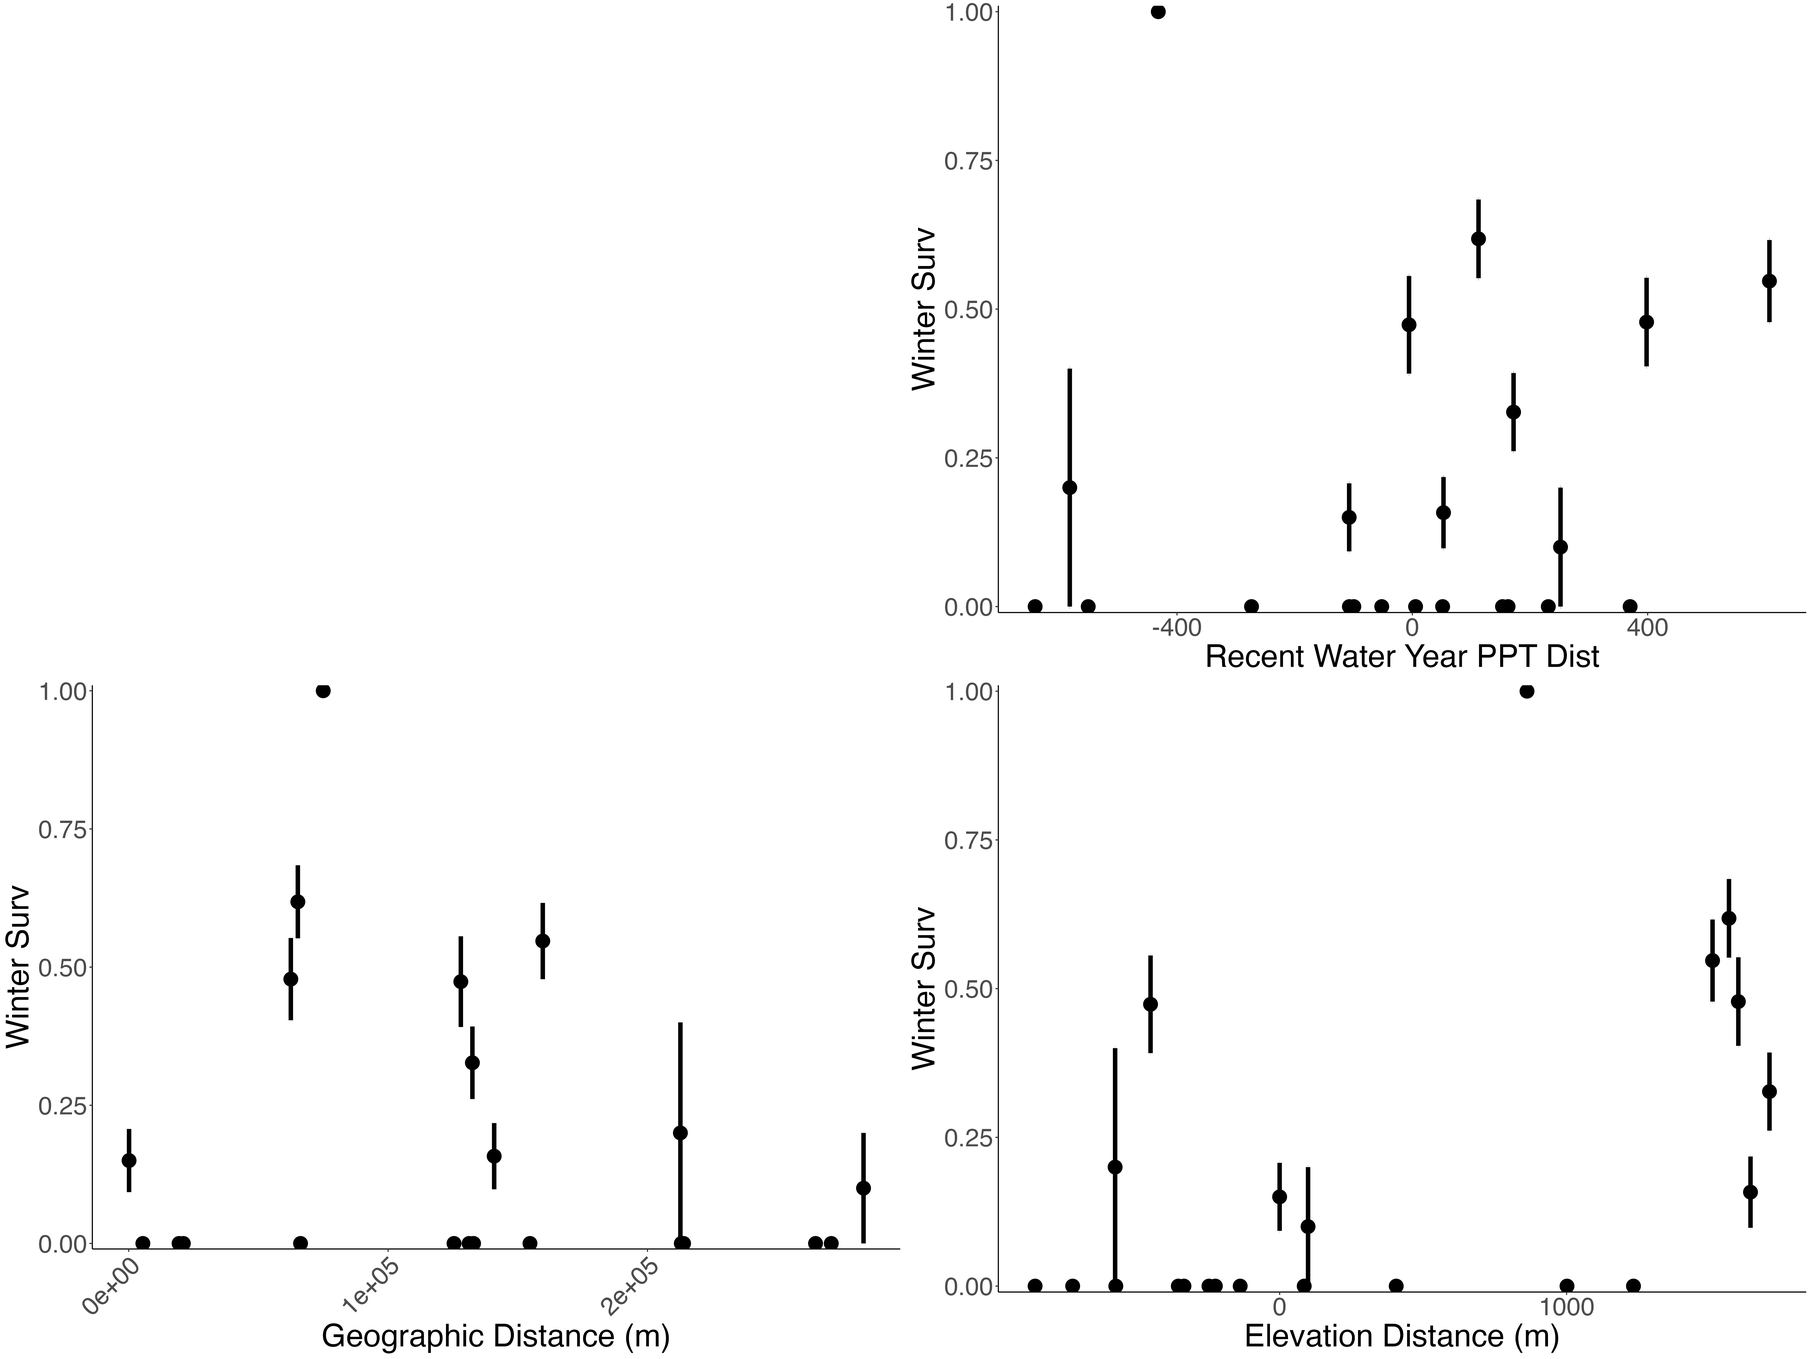
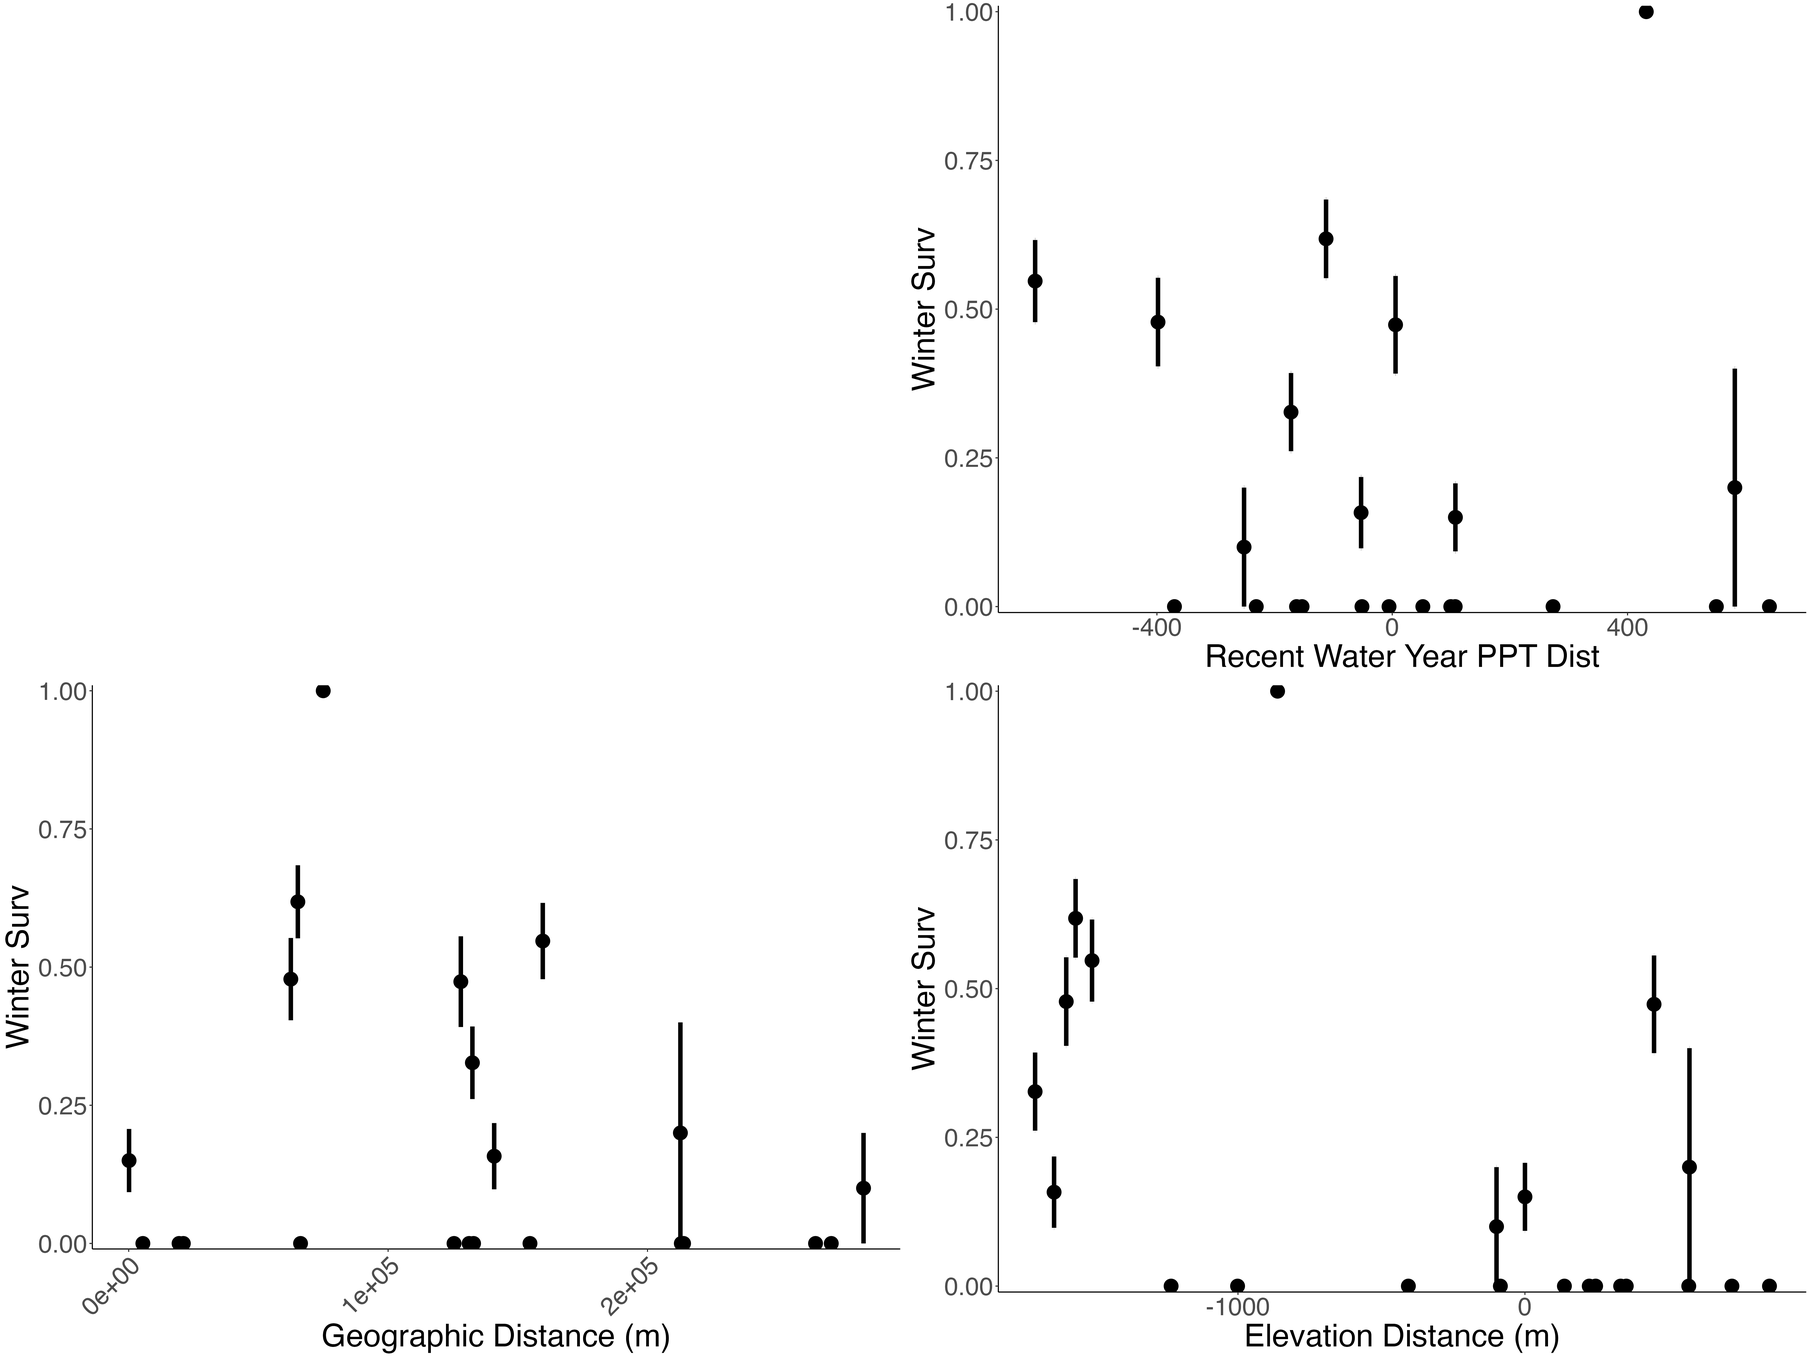
Changed elev, temp, and ppt distance to Home-Garden.

diff --git a/scripts/WL2_OverWinter_Survival.html b/scripts/WL2_OverWinter_Survival.html
@@ -11,7 +11,7 @@
 
 <meta name="author" content="Brandie Quarles" />
 
-<meta name="date" content="2025-03-18" />
+<meta name="date" content="2025-03-21" />
 
 <title>WL2_OverWinter_Survival</title>
 
@@ -352,13 +352,15 @@ display: none;
 
 <h1 class="title toc-ignore">WL2_OverWinter_Survival</h1>
 <h4 class="author">Brandie Quarles</h4>
-<h4 class="date">2025-03-18</h4>
+<h4 class="date">2025-03-21</h4>
 
 </div>
 
 
 <div id="over-winter-survival-at-wl2-garden" class="section level1">
 <h1>Over-winter survival at WL2 garden</h1>
+<p>To Do: - sum scaled temp and ppt distance (scale but don’t center)
+and see if that has a relat with winter surv</p>
 <div id="libraries" class="section level2">
 <h2>Libraries</h2>
 <pre class="r"><code>library(tidyverse)</code></pre>
@@ -449,7 +451,7 @@ library(tidymodels)</code></pre>
 ## ✖ infer::t_test()       masks rstatix::t_test()
 ## ✖ Matrix::unpack()      masks tidyr::unpack()
 ## ✖ recipes::update()     masks Matrix::update(), stats::update()
-## • Learn how to get started at https://www.tidymodels.org/start/</code></pre>
+## • Dig deeper into tidy modeling with R at https://www.tmwr.org</code></pre>
 <pre class="r"><code>library(furrr) #Apply Mapping Functions in Parallel using Futures</code></pre>
 <pre><code>## Loading required package: future</code></pre>
 <pre class="r"><code>tidymodels_prefer()
@@ -537,7 +539,7 @@ wl2_gowers_2024 &lt;- read_csv(&quot;../output/Climate/Gowers_WL2_2024.csv&quot;
   pivot_wider(names_from = TimePd, values_from = c(GrwSsn_GD, Wtr_Year_GD)) %&gt;% 
   mutate(WL2_Lat=38.82599, WL2_Long=-120.2509, WL2_Elev=2020) %&gt;% 
   mutate(Geographic_Dist=distHaversine(cbind(WL2_Long, WL2_Lat), cbind(Long, Lat)),
-         Elev_Dist=WL2_Elev-elev_m) %&gt;% # Calculate the distance using the haversine formula
+         Elev_Dist=elev_m-WL2_Elev) %&gt;% # Calculate the distance using the haversine formula
   rename(pop=parent.pop)</code></pre>
 <pre><code>## Rows: 46 Columns: 8
 ## ── Column specification ────────────────────────────────────────────────────────
@@ -550,7 +552,7 @@ wl2_gowers_2024 &lt;- read_csv(&quot;../output/Climate/Gowers_WL2_2024.csv&quot;
 </div>
 <div id="climate-subtraction-distance" class="section level2">
 <h2>Climate Subtraction Distance</h2>
-<pre class="r"><code>wl2_wtr_year_sub_recent_2024 &lt;- read_csv(&quot;../output/Climate/full_year_Subtraction_Dist_from_WL2_2024_Recent.csv&quot;) %&gt;% 
+<pre class="r"><code>wl2_wtr_year_sub_recent_2024 &lt;- read_csv(&quot;../output/Climate/full_year_Subtraction_Dist_from_Home_WL2_2024_Recent.csv&quot;) %&gt;% 
   select(parent.pop, Wtr_Year_TempDist_Recent=ann_tmean_dist, Wtr_Year_PPTDist_Recent=ann_ppt_dist)</code></pre>
 <pre><code>## Rows: 23 Columns: 18
 ## ── Column specification ────────────────────────────────────────────────────────
@@ -560,7 +562,7 @@ wl2_gowers_2024 &lt;- read_csv(&quot;../output/Climate/Gowers_WL2_2024.csv&quot;
 ## 
 ## ℹ Use `spec()` to retrieve the full column specification for this data.
 ## ℹ Specify the column types or set `show_col_types = FALSE` to quiet this message.</code></pre>
-<pre class="r"><code>wl2_wtr_year_sub_historic_2024 &lt;- read_csv(&quot;../output/Climate/full_year_Subtraction_Dist_from_WL2_2024_Historical.csv&quot;) %&gt;% 
+<pre class="r"><code>wl2_wtr_year_sub_historic_2024 &lt;- read_csv(&quot;../output/Climate/full_year_Subtraction_Dist_from_Home_WL2_2024_Historical.csv&quot;) %&gt;% 
   select(parent.pop, Wtr_Year_TempDist_Historic=ann_tmean_dist, Wtr_Year_PPTDist_Historic=ann_ppt_dist)</code></pre>
 <pre><code>## Rows: 23 Columns: 18
 ## ── Column specification ────────────────────────────────────────────────────────
@@ -570,7 +572,7 @@ wl2_gowers_2024 &lt;- read_csv(&quot;../output/Climate/Gowers_WL2_2024.csv&quot;
 ## 
 ## ℹ Use `spec()` to retrieve the full column specification for this data.
 ## ℹ Specify the column types or set `show_col_types = FALSE` to quiet this message.</code></pre>
-<pre class="r"><code>wl2_grwssn_sub_recent_2024 &lt;- read_csv(&quot;../output/Climate/grwssn_Subtraction_Dist_from_WL2_2024_Recent.csv&quot;) %&gt;% 
+<pre class="r"><code>wl2_grwssn_sub_recent_2024 &lt;- read_csv(&quot;../output/Climate/grwssn_Subtraction_Dist_from_Home_WL2_2024_Recent.csv&quot;) %&gt;% 
   select(parent.pop, GrwSsn_TempDist_Recent=ann_tmean_dist, GrwSsn_PPTDist_Recent=ann_ppt_dist)</code></pre>
 <pre><code>## Rows: 23 Columns: 18
 ## ── Column specification ────────────────────────────────────────────────────────
@@ -580,7 +582,7 @@ wl2_gowers_2024 &lt;- read_csv(&quot;../output/Climate/Gowers_WL2_2024.csv&quot;
 ## 
 ## ℹ Use `spec()` to retrieve the full column specification for this data.
 ## ℹ Specify the column types or set `show_col_types = FALSE` to quiet this message.</code></pre>
-<pre class="r"><code>wl2_grwssn_sub_historic_2024 &lt;- read_csv(&quot;../output/Climate/grwssn_Subtraction_Dist_from_WL2_2024_Historical.csv&quot;) %&gt;% 
+<pre class="r"><code>wl2_grwssn_sub_historic_2024 &lt;- read_csv(&quot;../output/Climate/grwssn_Subtraction_Dist_from_Home_WL2_2024_Historical.csv&quot;) %&gt;% 
   select(parent.pop, GrwSsn_TempDist_Historic=ann_tmean_dist, GrwSsn_PPTDist_Historic=ann_ppt_dist)</code></pre>
 <pre><code>## Rows: 23 Columns: 18
 ## ── Column specification ────────────────────────────────────────────────────────
@@ -738,7 +740,7 @@ WYCD_recent &lt;- winter_surv %&gt;%
 <pre class="r"><code>wl2_winter_surv_FIG_recent &lt;- ggarrange(&quot;&quot;,WYCD_recent, GD,ED, ncol=2, nrow=2) </code></pre>
 <pre><code>## Warning in as_grob.default(plot): Cannot convert object of class character into
 ## a grob.</code></pre>
-<pre class="r"><code>#ggsave(&quot;../output/WL2_Traits/WL2_WinterSurv_SCATTERS_Recent.png&quot;, width = 24, height = 18, units = &quot;in&quot;)</code></pre>
+<pre class="r"><code>ggsave(&quot;../output/WL2_Traits/WL2_WinterSurv_SCATTERS_Recent.png&quot;, width = 24, height = 18, units = &quot;in&quot;)</code></pre>
 <pre class="r"><code>#scatter plots
 WYCD_historic &lt;- winter_surv %&gt;% 
   group_by(pop, elev_m, GrwSsn_GD_Historical, Wtr_Year_GD_Historical) %&gt;% 
@@ -755,7 +757,7 @@ WYCD_historic &lt;- winter_surv %&gt;%
 <pre class="r"><code>wl2_winter_surv_FIG_historic &lt;- ggarrange(&quot;&quot;, WYCD_historic, GD,ED, ncol=2, nrow=2) </code></pre>
 <pre><code>## Warning in as_grob.default(plot): Cannot convert object of class character into
 ## a grob.</code></pre>
-<pre class="r"><code>#ggsave(&quot;../output/WL2_Traits/WL2_WinterSurv_SCATTERS_Historical.png&quot;, width = 24, height = 18, units = &quot;in&quot;)</code></pre>
+<pre class="r"><code>ggsave(&quot;../output/WL2_Traits/WL2_WinterSurv_SCATTERS_Historical.png&quot;, width = 24, height = 18, units = &quot;in&quot;)</code></pre>
 <pre class="r"><code>#scatter plots - recent
 WYCD_prob_recent &lt;- winter_surv_sub_dist %&gt;% 
   group_by(pop, elev_m, Wtr_Year_TempDist_Recent, Wtr_Year_TempDist_Historic) %&gt;% 
@@ -879,25 +881,25 @@ WYCD_prob_historic &lt;- winter_surv_sub_dist %&gt;%
 <div id="scaling" class="section level3">
 <h3>Scaling</h3>
 <pre class="r"><code>winter_surv %&gt;% group_by(pop, elev_m, GrwSsn_GD_Historical, Wtr_Year_GD_Historical) %&gt;% 
-  summarise(meanSurv=mean(WinterSurv, na.rm = TRUE), semSurv=sem(WinterSurv, na.rm=TRUE), n=n()) #WR only has 1 individual, remove </code></pre>
+  summarise(n=n()) %&gt;% 
+  arrange(n)#WR only has 1 individual, remove </code></pre>
 <pre><code>## `summarise()` has grouped output by &#39;pop&#39;, &#39;elev_m&#39;, &#39;GrwSsn_GD_Historical&#39;.
 ## You can override using the `.groups` argument.</code></pre>
-<pre><code>## # A tibble: 22 × 7
+<pre><code>## # A tibble: 22 × 5
 ## # Groups:   pop, elev_m, GrwSsn_GD_Historical [22]
-##    pop   elev_m GrwSsn_GD_Historical Wtr_Year_GD_Historical meanSurv semSurv
-##    &lt;chr&gt;  &lt;dbl&gt;                &lt;dbl&gt;                  &lt;dbl&gt;    &lt;dbl&gt;   &lt;dbl&gt;
-##  1 BH      511.                0.382                  0.521    0.547  0.0690
-##  2 CC      313                 0.510                  0.415    0.327  0.0657
-##  3 CP2    2244.                0.336                  0.296    0      0     
-##  4 CP3    2266.                0.371                  0.317    0      0     
-##  5 DPR    1019.                0.418                  0.361    0      0     
-##  6 FR      787                 0.349                  0.387    0      0     
-##  7 IH      454.                0.456                  0.387    0.618  0.0661
-##  8 LV1    2593.                0.615                  0.499    0.2    0.2   
-##  9 LV3    2354.                0.626                  0.510    0      0     
-## 10 LVTR1  2741.                0.631                  0.507    0      0     
-## # ℹ 12 more rows
-## # ℹ 1 more variable: n &lt;int&gt;</code></pre>
+##    pop   elev_m GrwSsn_GD_Historical Wtr_Year_GD_Historical     n
+##    &lt;chr&gt;  &lt;dbl&gt;                &lt;dbl&gt;                  &lt;dbl&gt; &lt;int&gt;
+##  1 WR     1158                 0.372                  0.326     1
+##  2 LV3    2354.                0.626                  0.510     3
+##  3 FR      787                 0.349                  0.387     5
+##  4 LV1    2593.                0.615                  0.499     5
+##  5 LVTR1  2741.                0.631                  0.507     5
+##  6 SQ3    2373.                0.304                  0.290     6
+##  7 YO11   2872.                0.420                  0.451     8
+##  8 YO4    2158.                0.261                  0.250     9
+##  9 YO8    2591.                0.346                  0.338     9
+## 10 SQ1    1921.                0.217                  0.293    10
+## # ℹ 12 more rows</code></pre>
 <pre class="r"><code>wl2_winter_surv_scaled &lt;- winter_surv %&gt;% 
   filter(pop!=&quot;WR&quot;) %&gt;% 
   mutate_at(c(&quot;GrwSsn_GD_Recent&quot;,&quot;Wtr_Year_GD_Recent&quot;,                                                           &quot;GrwSsn_GD_Historical&quot;,&quot;Wtr_Year_GD_Historical&quot;,&quot;Geographic_Dist&quot;),
@@ -1038,11 +1040,11 @@ surv_GD_fits_wl2_sub %&gt;% mutate(glance=map(fit, glance)) %&gt;% unnest(glance
 <pre><code>## # A tibble: 6 × 6
 ##   name          term                       estimate std.error statistic p.value
 ##   &lt;chr&gt;         &lt;chr&gt;                         &lt;dbl&gt;     &lt;dbl&gt;     &lt;dbl&gt;   &lt;dbl&gt;
-## 1 WY_Recent     Wtr_Year_TempDist_Recent    -1.04       0.649   -1.61     0.108
-## 2 WY_Recent     Wtr_Year_PPTDist_Recent      0.412      0.616    0.668    0.504
+## 1 WY_Recent     Wtr_Year_TempDist_Recent     1.04       0.649    1.61     0.108
+## 2 WY_Recent     Wtr_Year_PPTDist_Recent     -0.412      0.616   -0.668    0.504
 ## 3 WY_Recent     Geographic_Dist             -0.0277     0.459   -0.0604   0.952
-## 4 WY_Historical Wtr_Year_TempDist_Historic  -1.00       0.664   -1.51     0.131
-## 5 WY_Historical Wtr_Year_PPTDist_Historic    0.446      0.629    0.710    0.478
+## 4 WY_Historical Wtr_Year_TempDist_Historic   1.00       0.664    1.51     0.131
+## 5 WY_Historical Wtr_Year_PPTDist_Historic   -0.446      0.629   -0.710    0.478
 ## 6 WY_Historical Geographic_Dist              0.0239     0.445    0.0537   0.957</code></pre>
 <pre class="r"><code>#  arrange(p.value)</code></pre>
 </div>

diff --git a/scripts/WL2_OverWinter_Survival.md b/scripts/WL2_OverWinter_Survival.md
@@ -1,7 +1,7 @@
 ---
 title: "WL2_OverWinter_Survival"
 author: "Brandie Quarles"
-date: "2025-03-18"
+date: "2025-03-21"
 output: 
   html_document: 
     keep_md: yes
@@ -10,6 +10,9 @@ output:
 
 
 # Over-winter survival at WL2 garden 
+
+To Do:
+- sum scaled temp and ppt distance (scale but don't center) and see if that has a relat with winter surv
 
 ## Libraries
 
@@ -147,7 +150,7 @@ library(tidymodels)
 ## ✖ infer::t_test()       masks rstatix::t_test()
 ## ✖ Matrix::unpack()      masks tidyr::unpack()
 ## ✖ recipes::update()     masks Matrix::update(), stats::update()
-## • Learn how to get started at https://www.tidymodels.org/start/
+## • Dig deeper into tidy modeling with R at https://www.tmwr.org
 ```
 
 ``` r
@@ -275,7 +278,7 @@ wl2_gowers_2024 <- read_csv("../output/Climate/Gowers_WL2_2024.csv") %>%
   pivot_wider(names_from = TimePd, values_from = c(GrwSsn_GD, Wtr_Year_GD)) %>% 
   mutate(WL2_Lat=38.82599, WL2_Long=-120.2509, WL2_Elev=2020) %>% 
   mutate(Geographic_Dist=distHaversine(cbind(WL2_Long, WL2_Lat), cbind(Long, Lat)),
-         Elev_Dist=WL2_Elev-elev_m) %>% # Calculate the distance using the haversine formula
+         Elev_Dist=elev_m-WL2_Elev) %>% # Calculate the distance using the haversine formula
   rename(pop=parent.pop)
 ```
 
@@ -294,7 +297,7 @@ wl2_gowers_2024 <- read_csv("../output/Climate/Gowers_WL2_2024.csv") %>%
 
 
 ``` r
-wl2_wtr_year_sub_recent_2024 <- read_csv("../output/Climate/full_year_Subtraction_Dist_from_WL2_2024_Recent.csv") %>% 
+wl2_wtr_year_sub_recent_2024 <- read_csv("../output/Climate/full_year_Subtraction_Dist_from_Home_WL2_2024_Recent.csv") %>% 
   select(parent.pop, Wtr_Year_TempDist_Recent=ann_tmean_dist, Wtr_Year_PPTDist_Recent=ann_ppt_dist)
 ```
 
@@ -310,7 +313,7 @@ wl2_wtr_year_sub_recent_2024 <- read_csv("../output/Climate/full_year_Subtractio
 ```
 
 ``` r
-wl2_wtr_year_sub_historic_2024 <- read_csv("../output/Climate/full_year_Subtraction_Dist_from_WL2_2024_Historical.csv") %>% 
+wl2_wtr_year_sub_historic_2024 <- read_csv("../output/Climate/full_year_Subtraction_Dist_from_Home_WL2_2024_Historical.csv") %>% 
   select(parent.pop, Wtr_Year_TempDist_Historic=ann_tmean_dist, Wtr_Year_PPTDist_Historic=ann_ppt_dist)
 ```
 
@@ -326,7 +329,7 @@ wl2_wtr_year_sub_historic_2024 <- read_csv("../output/Climate/full_year_Subtract
 ```
 
 ``` r
-wl2_grwssn_sub_recent_2024 <- read_csv("../output/Climate/grwssn_Subtraction_Dist_from_WL2_2024_Recent.csv") %>% 
+wl2_grwssn_sub_recent_2024 <- read_csv("../output/Climate/grwssn_Subtraction_Dist_from_Home_WL2_2024_Recent.csv") %>% 
   select(parent.pop, GrwSsn_TempDist_Recent=ann_tmean_dist, GrwSsn_PPTDist_Recent=ann_ppt_dist)
 ```
 
@@ -342,7 +345,7 @@ wl2_grwssn_sub_recent_2024 <- read_csv("../output/Climate/grwssn_Subtraction_Dis
 ```
 
 ``` r
-wl2_grwssn_sub_historic_2024 <- read_csv("../output/Climate/grwssn_Subtraction_Dist_from_WL2_2024_Historical.csv") %>% 
+wl2_grwssn_sub_historic_2024 <- read_csv("../output/Climate/grwssn_Subtraction_Dist_from_Home_WL2_2024_Historical.csv") %>% 
   select(parent.pop, GrwSsn_TempDist_Historic=ann_tmean_dist, GrwSsn_PPTDist_Historic=ann_ppt_dist)
 ```
 
@@ -593,7 +596,7 @@ wl2_winter_surv_FIG_recent <- ggarrange("",WYCD_recent, GD,ED, ncol=2, nrow=2)
 ```
 
 ``` r
-#ggsave("../output/WL2_Traits/WL2_WinterSurv_SCATTERS_Recent.png", width = 24, height = 18, units = "in")
+ggsave("../output/WL2_Traits/WL2_WinterSurv_SCATTERS_Recent.png", width = 24, height = 18, units = "in")
 ```
 
 
@@ -626,7 +629,7 @@ wl2_winter_surv_FIG_historic <- ggarrange("", WYCD_historic, GD,ED, ncol=2, nrow
 ```
 
 ``` r
-#ggsave("../output/WL2_Traits/WL2_WinterSurv_SCATTERS_Historical.png", width = 24, height = 18, units = "in")
+ggsave("../output/WL2_Traits/WL2_WinterSurv_SCATTERS_Historical.png", width = 24, height = 18, units = "in")
 ```
 
 
@@ -838,7 +841,8 @@ ggsave("../output/WL2_Traits/WL2_WinterSurv_PPTSubDist_SCATTERS_Historic.png", w
 
 ``` r
 winter_surv %>% group_by(pop, elev_m, GrwSsn_GD_Historical, Wtr_Year_GD_Historical) %>% 
-  summarise(meanSurv=mean(WinterSurv, na.rm = TRUE), semSurv=sem(WinterSurv, na.rm=TRUE), n=n()) #WR only has 1 individual, remove 
+  summarise(n=n()) %>% 
+  arrange(n)#WR only has 1 individual, remove 
 ```
 
 ```
@@ -847,22 +851,21 @@ winter_surv %>% group_by(pop, elev_m, GrwSsn_GD_Historical, Wtr_Year_GD_Historic
 ```
 
 ```
-## # A tibble: 22 × 7
+## # A tibble: 22 × 5
 ## # Groups:   pop, elev_m, GrwSsn_GD_Historical [22]
-##    pop   elev_m GrwSsn_GD_Historical Wtr_Year_GD_Historical meanSurv semSurv
-##    <chr>  <dbl>                <dbl>                  <dbl>    <dbl>   <dbl>
-##  1 BH      511.                0.382                  0.521    0.547  0.0690
-##  2 CC      313                 0.510                  0.415    0.327  0.0657
-##  3 CP2    2244.                0.336                  0.296    0      0     
-##  4 CP3    2266.                0.371                  0.317    0      0     
-##  5 DPR    1019.                0.418                  0.361    0      0     
-##  6 FR      787                 0.349                  0.387    0      0     
-##  7 IH      454.                0.456                  0.387    0.618  0.0661
-##  8 LV1    2593.                0.615                  0.499    0.2    0.2   
-##  9 LV3    2354.                0.626                  0.510    0      0     
-## 10 LVTR1  2741.                0.631                  0.507    0      0     
+##    pop   elev_m GrwSsn_GD_Historical Wtr_Year_GD_Historical     n
+##    <chr>  <dbl>                <dbl>                  <dbl> <int>
+##  1 WR     1158                 0.372                  0.326     1
+##  2 LV3    2354.                0.626                  0.510     3
+##  3 FR      787                 0.349                  0.387     5
+##  4 LV1    2593.                0.615                  0.499     5
+##  5 LVTR1  2741.                0.631                  0.507     5
+##  6 SQ3    2373.                0.304                  0.290     6
+##  7 YO11   2872.                0.420                  0.451     8
+##  8 YO4    2158.                0.261                  0.250     9
+##  9 YO8    2591.                0.346                  0.338     9
+## 10 SQ1    1921.                0.217                  0.293    10
 ## # ℹ 12 more rows
-## # ℹ 1 more variable: n <int>
 ```
 
 ``` r
@@ -1062,11 +1065,11 @@ surv_GD_fits_wl2_sub %>% mutate(tidy=map(fit, tidy)) %>% unnest(tidy) %>%
 ## # A tibble: 6 × 6
 ##   name          term                       estimate std.error statistic p.value
 ##   <chr>         <chr>                         <dbl>     <dbl>     <dbl>   <dbl>
-## 1 WY_Recent     Wtr_Year_TempDist_Recent    -1.04       0.649   -1.61     0.108
-## 2 WY_Recent     Wtr_Year_PPTDist_Recent      0.412      0.616    0.668    0.504
+## 1 WY_Recent     Wtr_Year_TempDist_Recent     1.04       0.649    1.61     0.108
+## 2 WY_Recent     Wtr_Year_PPTDist_Recent     -0.412      0.616   -0.668    0.504
 ## 3 WY_Recent     Geographic_Dist             -0.0277     0.459   -0.0604   0.952
-## 4 WY_Historical Wtr_Year_TempDist_Historic  -1.00       0.664   -1.51     0.131
-## 5 WY_Historical Wtr_Year_PPTDist_Historic    0.446      0.629    0.710    0.478
+## 4 WY_Historical Wtr_Year_TempDist_Historic   1.00       0.664    1.51     0.131
+## 5 WY_Historical Wtr_Year_PPTDist_Historic   -0.446      0.629   -0.710    0.478
 ## 6 WY_Historical Geographic_Dist              0.0239     0.445    0.0537   0.957
 ```
 
